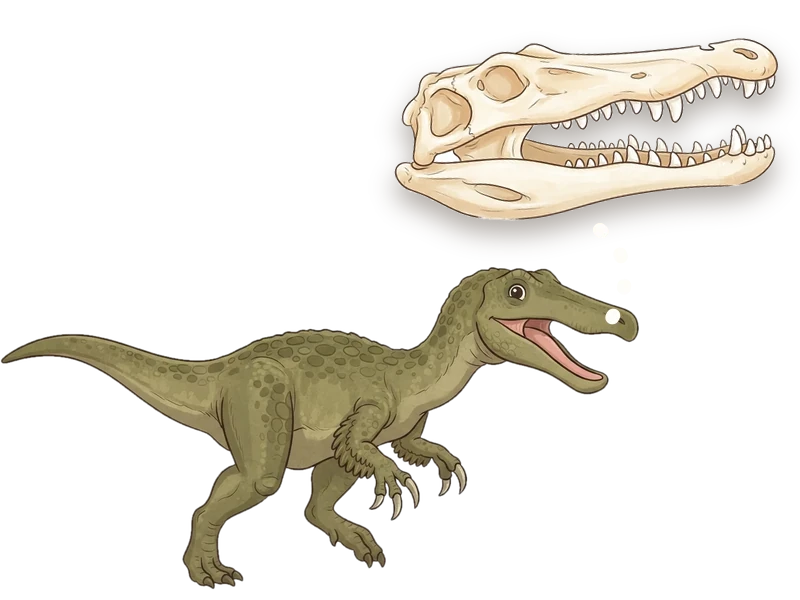
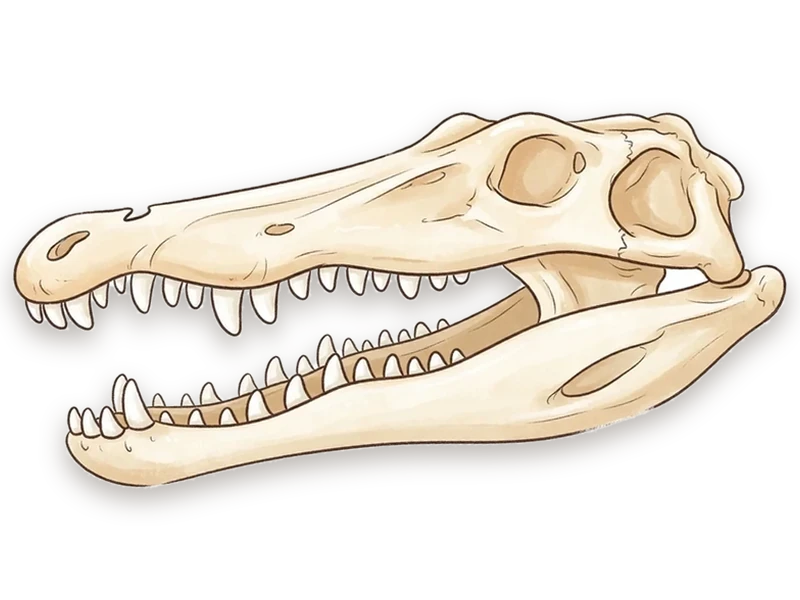
Dig site: TEETH tile is the Baryonyx jaw alone, large enough to read at tile size

diff --git a/rexlab/scripts/dig-site-home-tiles.py b/rexlab/scripts/dig-site-home-tiles.py
@@ -316,28 +316,12 @@ def color():
     return c
 
 
-def cut_white(im):
-    """Clear the white page around a picture, flooding in from its edges."""
-    im = im.convert("RGBA")
-    for xy in ((0, 0), (im.width - 1, 0), (0, im.height - 1), (im.width - 1, im.height - 1)):
-        ImageDraw.floodfill(im, xy, (255, 255, 255, 0), thresh=40)
-    a = im.getchannel("A").filter(ImageFilter.MinFilter(3)).filter(ImageFilter.GaussianBlur(1))
-    im.putalpha(a)
-    return im
-
-
 def teeth():
-    """The toothless Baryonyx of the game, its jaw on the way back to its open mouth."""
+    """The Baryonyx jaw on its own, large, teeth first."""
     c = Image.new("RGBA", (W, H))
-    dino = fit(cut_white(load("whose-jaw-gummy-baryonyx.webp")), w=640, h=500).transpose(Image.FLIP_LEFT_RIGHT)
-    dx, dy = 0, 590 - dino.height
-    put(c, dino, dx, dy)
-    jaw = fit(load("whose-jaw-jaw-baryonyx-cutout.webp"), w=400).transpose(Image.FLIP_LEFT_RIGHT)
-    jaw = jaw.rotate(10, Image.BICUBIC, expand=True)
-    put(c, jaw, W - jaw.width, 0, drop=dict(blur=12, alpha=90, dy=14))
-    c.alpha_composite(svg(
-        f'<path d="M600 230 Q650 270 {dx + dino.width - 40} {dy + 70}" fill="none" stroke="#FFFDF8" stroke-width="14" '
-        'stroke-linecap="round" stroke-dasharray="2 30"/>'))
+    jaw = fit(load("whose-jaw-jaw-baryonyx-cutout.webp"), w=760, h=520).rotate(6, Image.BICUBIC, expand=True)
+    jaw = fit(jaw, w=780, h=560)
+    put(c, jaw, (W - jaw.width) // 2, (H - jaw.height) // 2, drop=dict(blur=12, alpha=80, dy=12))
     return c
 
 
